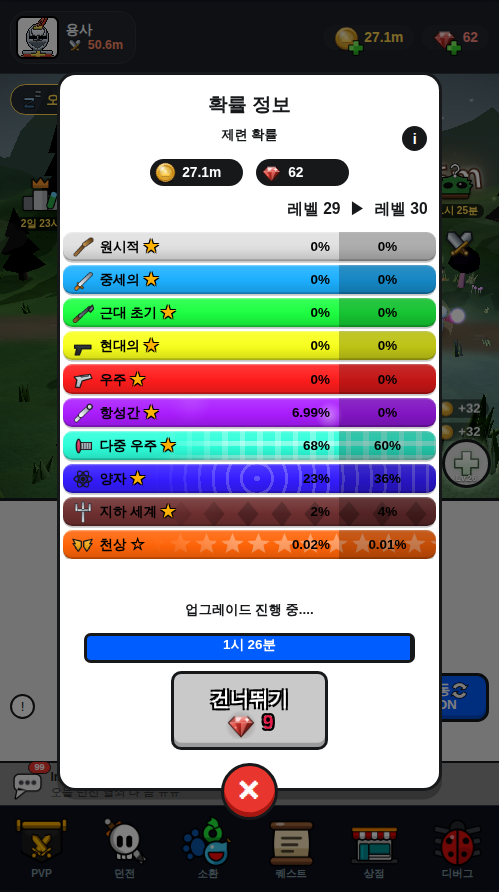
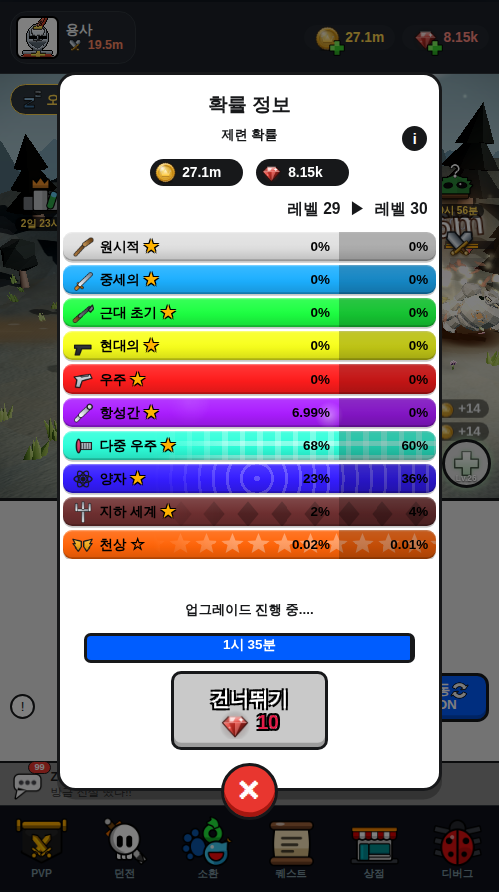
aaa-skin ② 확률 정보 — 다음 레벨 % 를 원본대로 막대 우단 우측 정렬(042831 실측 잉크 x400~420·우단 x427, 여백 1.4%W; 종전 중앙 정렬은 10개 막대 전부 ~4.7%p 좌측 이탈), probe-fi-dom PASS

diff --git a/web/css/style.css b/web/css/style.css
@@ -3731,7 +3731,11 @@ body {
    실측: 막대 rgb(28,175,255) → 세그먼트 rgb(22,135,197), 회색 rgb(224) → rgb(173) 로 둘 다 ×0.772 다
    (회색을 덮는 방식이면 채도가 빠져 빨강·주황 막대에서 색이 확 틀어진다 — 종전 rgba(110,110,110,.42)가 그랬다). */
 .fi-age-next {
-    width: 25.9%; flex: none; align-self: stretch; display: flex; align-items: center; justify-content: center;
+    /* 원본 % 는 세그먼트 중앙이 아니라 **막대 우단 우측 정렬**이다 — 042831 y277 행 실측:
+       잉크 x400~420 · 막대 우단 x427(우측 여백 7px = 1.4%W). 가운데 정렬이면 10개 막대 전부
+       ~4.7%p 왼쪽으로 이탈한다(채점 1라운드 비평가 A 지적, 픽셀 교차검증 확인). */
+    width: 25.9%; flex: none; align-self: stretch; display: flex; align-items: center; justify-content: flex-end;
+    padding-right: .44rem;
     font-weight: 900; font-size: .8rem; color: #000;
     background: rgba(0,0,0,.228);
 }
